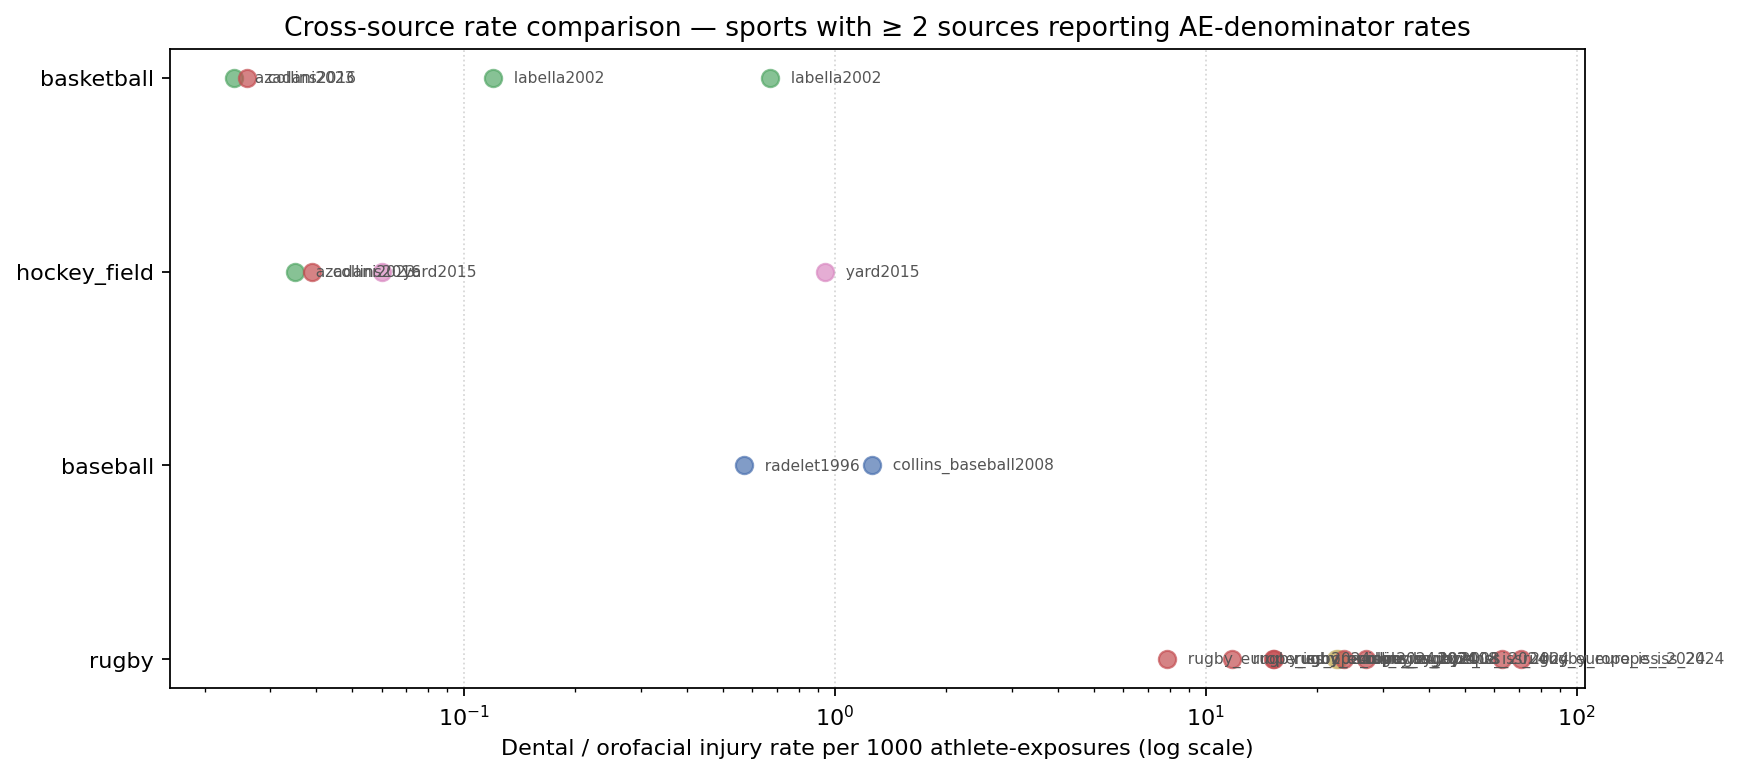
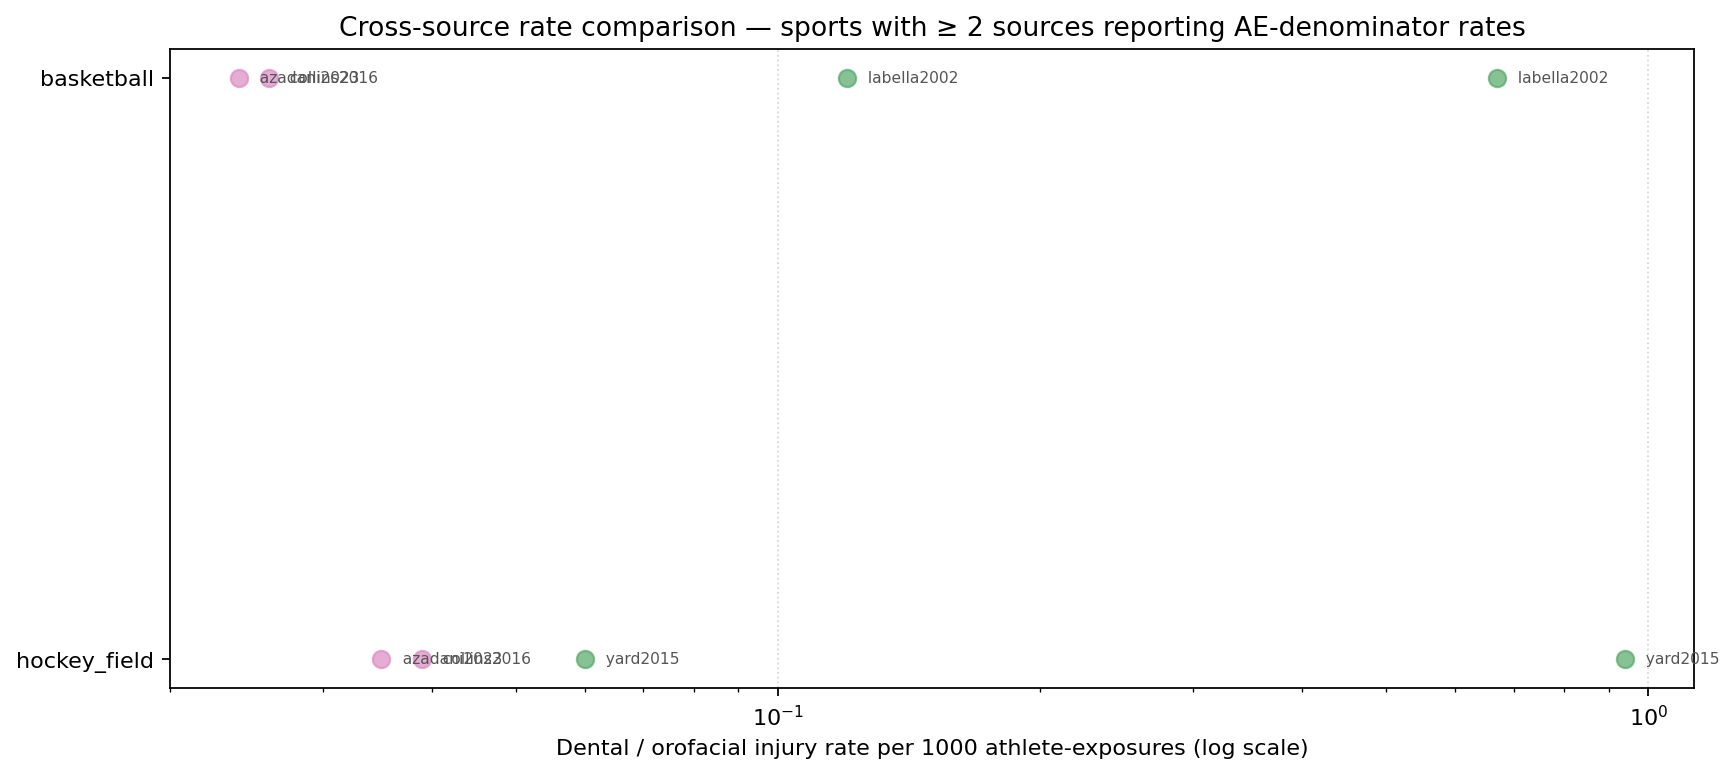
Enforce rate_per_1000_ae as a single athlete-exposure scale (validator C11)
Audit resolved the mixed-denominator issue in rate_per_1000_ae:
- per-100,000-AE rows (azadani2023, collins2016, yard2008) were already
  correctly converted at extraction (rate_raw/100); left unchanged.
- athlete-sessions confirmed as the AE unit (collins2004 rows stay).
- 9 time-denominator rows (radelet1996 x1, rugby_europe_iss_2024 x8, in
  player-(match-)hours) had rate_per_1000_ae blanked; values preserved in
  rate_raw. Now 20 rows carry a per-1000-AE value, all on one scale.

- scripts/08_validate.py: new C11 (FAIL) — rate_per_1000_ae populated only
  when rate_denominator_raw names an AE denominator.
- DATA_DICTIONARY.md: tightened rate_per_1000_ae / rate_denominator_raw defs.
- docs/decisions.md: 2026-06-13 entry. Regenerated cross-source comparison,
  Rate Explorer JSON, methods-paper/explorer caveats (count 29 -> 20).
- Validation: 426 rows, 0 FAILs, 0 WARNs.

diff --git a/docs/rate-explorer.html b/docs/rate-explorer.html
@@ -158,7 +158,7 @@ function render(){
   document.getElementById('summary').innerHTML =
     `<b>${rows.length}</b> row${rows.length===1?'':'s'} for <b>${esc(prettySport(sport))}</b>`+
     (age==='__all'?', all age groups':`, ${esc(prettyAge(age))}`)+
-    `. ${nAE} carry a value in the normalized rate field, but denominators still vary across rows (per&nbsp;1000 AE, per&nbsp;100,000 AE, per player-hours, …) — always read the denominator next to each rate; only same-denominator rates are directly comparable.`;
+    `. ${nAE} carry a value in the normalized per-1000-athlete-exposure field; those share a common denominator and are comparable on that axis (still mind differences in injury definition, age range, and era). Rows without it show the source's native rate in its own denominator (per player-hours, per season, % of injuries, …) — always read the denominator next to each rate.`;
 
   // Mouthguard evidence panel (analyzed rows for this sport, any age)
   const mgRows=DATA.rows.filter(r=>r.sport===sport && r.mouthguard_injury_relation==='analyzed');

diff --git a/scripts/08_validate.py b/scripts/08_validate.py
@@ -22,6 +22,8 @@ Checks:
         (catches sources where we accidentally extracted only adult rows from a youth-eligible source)
   C10. No duplicate (source_id, sport, age_category, sex, level_of_play, extraction_basis,
        season_or_timeframe) combinations — surfaces accidental re-extractions
+  C11. rate_per_1000_ae is populated only when rate_denominator_raw names an
+       athlete-exposure denominator (not hours / season / population / % of injuries)
 
 Output: outputs/validation_report.md with per-check counts and any failing rows.
 Exit code 0 if all hard checks pass (any C5/C9 mismatches surface as warnings,
@@ -29,6 +31,7 @@ not failures, since the schema is intentionally permissive for the pilot phase).
 """
 
 import csv
+import re
 import sys
 from collections import Counter, defaultdict
 from datetime import date
@@ -124,6 +127,27 @@ def parse_num(s):
         return float(s)
     except ValueError:
         return ("ERR", s)
+
+
+# Denominators that disqualify a rate from the athlete-exposure scale.
+_NON_AE_DENOM = ("hour", "season", "population", "per cent", "% of",
+                 "person-year", "player-match", "match-hour", "player-hour",
+                 "per 100 player", "players", "per child", "capita")
+# Athlete-exposure family. athlete-session is the standard AE unit
+# (1 athlete in 1 practice/game = 1 AE); see docs/decisions.md 2026-05-24.
+_AE_DENOM = ("athlete-exposure", "athletic-exposure", "athlete exposure",
+             "athlete-session", "athlete session")
+
+
+def denom_is_ae(denom):
+    """True iff `denom` (the rate_denominator_raw phrasing) is an
+    athlete-exposure denominator, so rate_per_1000_ae may be populated."""
+    d = (denom or "").lower()
+    if any(bad in d for bad in _NON_AE_DENOM):
+        return False
+    if any(good in d for good in _AE_DENOM):
+        return True
+    return bool(re.search(r"\bae\b", d))  # e.g. "per 1000 AE (dental specifically)"
 
 
 def main():
@@ -242,6 +266,20 @@ def main():
                                 "(exposure_context + subgroup_label should already "
                                 "disambiguate legitimate stratifications)")
 
+    # C11 — rate_per_1000_ae is reserved for athlete-exposure denominators.
+    # If the row carries a per-1000-AE value, rate_denominator_raw must name an
+    # AE denominator (not hours/season/population/% of injuries).
+    # See DATA_DICTIONARY.md and docs/decisions.md (2026-05-24, 2026-06-13).
+    for i, r in enumerate(rows):
+        if not r.get("rate_per_1000_ae", "").strip():
+            continue
+        denom = r.get("rate_denominator_raw", "")
+        if not denom_is_ae(denom):
+            add("FAIL", "C11", f"row {i+1}: rate_per_1000_ae is populated but "
+                               f"rate_denominator_raw='{denom}' is not an "
+                               f"athlete-exposure denominator — move the value to "
+                               f"rate_raw and leave rate_per_1000_ae empty")
+
     # Generate report
     fails = [f for f in findings if f[0] == "FAIL"]
     warns = [f for f in findings if f[0] == "WARN"]
@@ -282,6 +320,7 @@ def main():
     W("- **C8** `quality_flag` in allowed set (covered by C2)")
     W("- **C9** every source has at least one `youth_primary` row")
     W("- **C10** no duplicate (source × sport × age × sex × level × basis × season) keys")
+    W("- **C11** `rate_per_1000_ae` populated only when `rate_denominator_raw` is an athlete-exposure denominator")
     W("\n## Per-source row count\n")
     W("| source_id | rows | bases |")
     W("|---|---|---|")

diff --git a/scripts/33_rate_explorer_data.py b/scripts/33_rate_explorer_data.py
@@ -49,7 +49,7 @@ def main() -> None:
 
     payload = {
         "meta": {
-            "generated": "2026-06-12",
+            "generated": "2026-06-13",
             "source": "data/harmonized/master.csv",
             "scope": "youth_primary rows (ages 5-22 inclusion scope)",
             "n_rows": len(projected),

diff --git a/docs/decisions.md b/docs/decisions.md
@@ -406,4 +406,36 @@ One record (40662680, Swiss Muay Thai/K-1/kickboxing survey, Robbiani & Filippi 
 
 ---
 
+### 2026-06-13: `rate_per_1000_ae` is enforced as a single per-1000-athlete-exposure scale
+
+**Trigger:** Audit of the 29 rows carrying a `rate_per_1000_ae` value found the column was being read as if it held a common scale, but next to it sat `rate_denominator_raw` strings naming *different* denominators ("per 100,000 athlete-exposures", "per 1000 player-match-hours", "per 100 player-hours", "per 1000 athlete-sessions"). This extends the 2026-05-24 "denominator-unit issue" entry, which set the rule but was never enforced across the full dataset or by the validator.
+
+**Question:** Were the 29 values actually on different scales, and if so how do we put them on one true per-1000-AE scale (or split into value+unit)?
+
+**Investigation (corrects an assumption in the trigger):**
+- The 9 rows whose *raw* rate is reported "per 100,000 athlete-exposures" (azadani2023 ×3, collins2016 ×5, yard2008 ×1) were **already correctly converted** at extraction time: `rate_per_1000_ae = rate_raw ÷ 100` (e.g. azadani2023 basketball `rate_raw = 2.4` per 100k AE → `rate_per_1000_ae = 0.024` per 1000 AE). The "per 100,000" phrasing in `rate_denominator_raw` describes `rate_raw`, **not** the per-1000-AE column. These needed **no** change — dividing them again would have corrupted correct data.
+- `rate_denominator_raw` is, by definition (DATA_DICTIONARY.md), the original phrasing for `rate_raw`. It is *not* a label for `rate_per_1000_ae`. This was the source of the confusion.
+- The only genuinely mis-filed rows were **time-denominator** rates pasted verbatim into the AE column:
+  - **radelet1996** (1 row): `0.57` per-1000-*player-hours* (raw `0.057` per 100 player-hours).
+  - **rugby_europe_iss_2024** (8 rows): per-1000-*player-match-hours* (Sevens championship/trophy + head/face subsets).
+- **collins2004** (4 rows) reports "per 1000 **athlete-sessions**." An athlete-exposure is, by the standard NCAA-ISS / RIO definition, one athlete participating in one practice or competition — i.e. one session. The 2026-05-24 entry already defines AE as "an athlete-session count." So athlete-sessions **are** the AE unit; these 4 rows are valid per-1000-AE and stay. (An earlier framing of this audit listed athlete-sessions as non-AE; that is incorrect and is overridden here.)
+
+**Decision:**
+- **Approach (a), convert-and-null in place** — keep the `rate_per_1000_ae` column rather than splitting into `rate_value` + `rate_unit`. This honours the 2026-05-24 decision (which reserved this column for AE denominators and explicitly *deferred* a richer multi-column schema because it would force re-extraction). The split option remains available as a future v1.0 step if multi-unit structured comparison is ever needed.
+- **Invariant:** `rate_per_1000_ae` is populated **iff** the source denominator is an athlete-exposure (athlete-/athletic-exposure, athlete-session, or "AE"). Per-100,000-AE rates are stored already divided by 100. Time (hours / player-match-hours), season, population, and percent-of-injuries denominators leave `rate_per_1000_ae` empty; their value stays in `rate_raw` + `rate_denominator_raw`.
+- Blanked `rate_per_1000_ae` for the 9 time-denominator rows above (values preserved in `rate_raw`). Result: 20 rows now carry a per-1000-AE value, all on one scale.
+
+**Implementation:**
+- `data/extracted/radelet1996.csv` (1 row) and `data/extracted/rugby_europe_iss_2024.csv` (8 rows): `rate_per_1000_ae` blanked; all other fields unchanged.
+- `DATA_DICTIONARY.md`: `rate_per_1000_ae` and `rate_denominator_raw` definitions tightened to state the AE-only invariant and that `rate_denominator_raw` describes `rate_raw`.
+- `scripts/08_validate.py`: new **C11** (FAIL) — every populated `rate_per_1000_ae` row must have an AE-type `rate_denominator_raw`.
+- Re-ran `07_harmonize.py` → `08_validate.py` (0 FAILs), `21_cross_source_compare.py`, `33_rate_explorer_data.py`. As a consequence the cross-source view no longer pools rugby AE rates (collins_rugby2008) with rugby player-match-hours rates (rugby_europe).
+- Methods paper and Rate Explorer caveats updated (count 29 → 20; mixed-denominator warning replaced with the normal cross-source comparability caveats).
+
+**Affected rows/sources:** radelet1996 (1), rugby_europe_iss_2024 (8). No other extractions changed.
+
+**Reviewer:** Pending advisor review.
+
+---
+
 <!-- Add new decisions above this line, most recent first or chronological — pick one and stick with it. Chronological recommended for audit trail. -->

diff --git a/outputs/cross_source_rate_comparison.md b/outputs/cross_source_rate_comparison.md
@@ -2,7 +2,7 @@
 
 _Auto-generated from `data/harmonized/master.csv`. Compares per-1000-athlete-exposure dental / orofacial injury rates across sources for each sport with >= 2 sources._
 
-**Sports with multi-source AE-rate data:** 4
+**Sports with multi-source AE-rate data:** 2
 
 
 Note: rates can legitimately differ across sources because of differences in:
@@ -15,15 +15,6 @@ Note: rates can legitimately differ across sources because of differences in:
 
 Large spread across sources is expected; it does NOT mean the database is wrong.
 
-
-## baseball (2 sources, 2 rows)
-
-| source_id | year | country | age | sex | rate /1000 AE | denominator phrasing | subgroup |
-|---|---:|---|---|---|---:|---|---|
-| radelet1996 | 1996 | US | mixed | mixed | **0.570** | per 100 player-hours (overall) |  |
-| collins_baseball2008 | 2008 | US | adolescent | male | **1.260** | per 1000 athlete-exposures (HS baseball overall) |  |
-
-*Spread: min=0.570, max=1.260, ratio=2.2x*
 
 ## basketball (3 sources, 4 rows)
 
@@ -46,20 +37,3 @@ Large spread across sources is expected; it does NOT mean the database is wrong.
 | yard2015 | 2015 | US | collegiate | female | **0.940** | per 1000 AE (head/face/eye combined) | head_face_eye_aggregate |
 
 *Spread: min=0.035, max=0.940, ratio=26.9x*
-
-## rugby (2 sources, 10 rows)
-
-| source_id | year | country | age | sex | rate /1000 AE | denominator phrasing | subgroup |
-|---|---:|---|---|---|---:|---|---|
-| rugby_europe_iss_2024 | 2024 |  | adolescent | male | **7.850** | per 1000 player-match-hours (head/face subset) | u18_men_trophy_headface |
-| rugby_europe_iss_2024 | 2024 |  | adolescent | female | **11.780** | per 1000 player-match-hours (head/face subset) | u18_women_championship_headface |
-| rugby_europe_iss_2024 | 2024 |  | adolescent | female | **15.200** | per 1000 player-match-hours (Sevens — U18 Women's Trophy) | u18_women_trophy |
-| rugby_europe_iss_2024 | 2024 |  | adolescent | female | **15.240** | per 1000 player-match-hours (head/face subset) | u18_women_trophy_headface |
-| collins_rugby2008 | 2008 | US | collegiate | male | **22.500** | per 1000 game athletic-exposures (male) | male_game |
-| collins_rugby2008 | 2008 | US | collegiate | female | **22.700** | per 1000 game athletic-exposures (female) | female_game |
-| rugby_europe_iss_2024 | 2024 |  | adolescent | female | **23.600** | per 1000 player-match-hours (Sevens — U18 Women's Championship) | u18_women_championship |
-| rugby_europe_iss_2024 | 2024 |  | adolescent | male | **27.000** | per 1000 player-match-hours (head/face subset) | u18_men_championship_headface |
-| rugby_europe_iss_2024 | 2024 |  | adolescent | male | **63.000** | per 1000 player-match-hours (Sevens — U18 Men's Championship) | u18_men_championship |
-| rugby_europe_iss_2024 | 2024 |  | adolescent | male | **70.600** | per 1000 player-match-hours (Sevens — U18 Men's Trophy) | u18_men_trophy |
-
-*Spread: min=7.850, max=70.600, ratio=9.0x*

diff --git a/outputs/methods_paper_draft.md b/outputs/methods_paper_draft.md
@@ -89,7 +89,7 @@ Sport classification follows a controlled vocabulary maintained in `docs/decisio
 
 ### Technical validation (PROTOCOL §7)
 
-A versioned validator (`scripts/08_validate.py`) runs 10 checks (C1-C10) on `data/harmonized/master.csv`:
+A versioned validator (`scripts/08_validate.py`) runs 11 checks (C1-C11) on `data/harmonized/master.csv`:
 - **C1–C2:** schema completeness; categorical-vocabulary conformance
 - **C3:** numeric plausibility (`rate_per_1000_ae < 100` per PROTOCOL §7)
 - **C4–C5:** age-min ≤ age-max; `age_category` consistency with the age range
@@ -98,6 +98,7 @@ A versioned validator (`scripts/08_validate.py`) runs 10 checks (C1-C10) on `dat
 - **C8:** `quality_flag` in the allowed set
 - **C9:** every source has at least one `youth_primary` row
 - **C10:** no duplicate (source × sport × age × sex × level × basis × exposure_context × subgroup × season) keys
+- **C11:** `rate_per_1000_ae` populated only when `rate_denominator_raw` is an athlete-exposure denominator
 
 C1–C4, C6–C8 and C10 are hard checks (a violation fails the build); C5 and C9 surface as warnings, since age-category banding is intentionally permissive.
 
@@ -123,9 +124,9 @@ Each source carries a stable `source_id` of form `<firstauthor><year>` (PubMed-k
 
 ## Technical Validation
 
-Current state (v0.1.x snapshot, 2026-06-12): **426 rows / 106 sources / 0 FAILs / 0 WARNs** against the 10 validation checks (`outputs/validation_report.md`), run on every commit via GitHub Actions CI. 23 PMC full-text XMLs cached. Cross-source rate comparison confirms tight agreement on US high-school basketball rates between `collins2016` (0.026 / 100k AE) and `azadani2023` (0.024 / 100k AE) — independent surveillance covering overlapping years yielding statistically indistinguishable estimates (`outputs/cross_source_rate_comparison.md`).
+Current state (v0.1.x snapshot, 2026-06-13): **426 rows / 106 sources / 0 FAILs / 0 WARNs** against the 11 validation checks (`outputs/validation_report.md`), run on every commit via GitHub Actions CI. 23 PMC full-text XMLs cached. Cross-source rate comparison confirms tight agreement on US high-school basketball rates between `collins2016` (0.026 per 1000 AE) and `azadani2023` (0.024 per 1000 AE) — equivalently 2.6 and 2.4 per 100,000 AE — independent surveillance covering overlapping years yielding statistically indistinguishable estimates (`outputs/cross_source_rate_comparison.md`).
 
-Of the 426 rows, 29 carry a value in `rate_per_1000_ae` (the rest preserve the source's native denominator in `rate_raw`/`rate_denominator_raw`); 41 rows report a mouthguard use rate and 41 record an analyzed mouthguard-vs-injury relationship. **Caveat (v0.1.x):** the `rate_per_1000_ae` column currently aggregates source-normalized rates whose denominators still differ (per&nbsp;1000 athlete-exposures, per&nbsp;100,000 athlete-exposures, per&nbsp;1000 athlete-sessions, per&nbsp;1000/100 player-hours), so these values are **not yet all mutually comparable** — each must be read with `rate_denominator_raw`. Two values are directly comparable only when their denominators match (e.g. the `collins2016`/`azadani2023` per-100k-AE basketball pair above). Converting this column to a single true per-1000-AE scale (or splitting it into `rate_value` + `rate_unit`) is a planned v1.0 harmonization step.
+Of the 426 rows, 20 carry a value in `rate_per_1000_ae` (the rest preserve the source's native denominator in `rate_raw`/`rate_denominator_raw`); 41 rows report a mouthguard use rate and 41 record an analyzed mouthguard-vs-injury relationship. All 20 values sit on a single per-1000-athlete-exposure scale: rates the source reported per 100,000&nbsp;AE are stored already divided by 100, athlete-session denominators are treated as athlete-exposures (the standard "one athlete in one practice or game" unit), and rates with time (hours, player-match-hours), population, or percent-of-injuries denominators are excluded from this column by design — kept only in `rate_raw`/`rate_denominator_raw` — and that exclusion is now enforced by validator check C11 (see `docs/decisions.md`, 2026-06-13). The 20 are therefore directly comparable on the denominator axis; as in any cross-source comparison they still differ in injury definition, age range, era, and competition-vs-practice context, so each rate should be read alongside its row attributes. (A future option to split into explicit `rate_value` + `rate_unit` columns, which would also carry the non-AE rates as structured values, remains available but is not needed for v0.1.x.)
 
 Limitations transparently documented:
 - English-language sources only (v1.0).
@@ -139,7 +140,7 @@ Limitations transparently documented:
 
 ## Usage Notes
 
-The headline scope is the youth-primary subset; subset on `extraction_basis == "youth_primary"` for the v1.0-scope view, or include `adult_comparator` rows for cross-age comparison. Always read a rate together with its `rate_denominator_raw`: only the 29 rows with a non-empty `rate_per_1000_ae` share a common athlete-exposure denominator and are directly comparable; the rest preserve heterogeneous native denominators (per-1000-player-hours, per-100k-population, per-season, % of injuries) and must not be pooled blindly. Empty cell = not reported; `0` = reported zero; `NA` = not applicable.
+The headline scope is the youth-primary subset; subset on `extraction_basis == "youth_primary"` for the v1.0-scope view, or include `adult_comparator` rows for cross-age comparison. Always read a rate together with its `rate_denominator_raw`: the 20 rows with a non-empty `rate_per_1000_ae` share a common athlete-exposure denominator and are directly comparable on that axis (subject to the usual definitional, age, and era differences); the rest preserve heterogeneous native denominators (per-1000-player-hours, per-100k-population, per-season, % of injuries) in `rate_raw` and must not be pooled blindly. Empty cell = not reported; `0` = reported zero; `NA` = not applicable.
 
 ```python
 import pandas as pd

diff --git a/DATA_DICTIONARY.md b/DATA_DICTIONARY.md
@@ -53,9 +53,9 @@ When adding a new source, follow these definitions exactly. When a definition is
 | `injury_count` | integer | Number of dental/orofacial injuries reported | `47` |
 | `injury_type_raw` | string | Injury terminology as used in source | `"tooth avulsion"` |
 | `injury_category` | category | Standardized per Andreasen classification: `enamel_fracture`, `crown_fracture`, `root_fracture`, `luxation`, `avulsion`, `concussion`, `other_dental`, `orofacial_with_dental`, `unspecified_dental` | `avulsion` |
-| `rate_raw` | float | Rate as reported in source | `0.43` |
-| `rate_denominator_raw` | string | Original denominator phrasing | `"per 1000 athlete-exposures"` |
-| `rate_per_1000_ae` | float | Standardized rate per 1000 athlete-exposures. Empty if source doesn't provide computable data. | `0.43` |
+| `rate_raw` | float | Rate as reported in source (in the source's own denominator) | `0.43` |
+| `rate_denominator_raw` | string | Original denominator phrasing — describes **`rate_raw`**, not `rate_per_1000_ae`. | `"per 100,000 athlete-exposures"` |
+| `rate_per_1000_ae` | float | Standardized rate per 1000 **athlete-exposures (AE)**. Populated **iff** the source's denominator is an athlete-exposure: athlete-/athletic-exposure, athlete-session (1 athlete in 1 practice or game = 1 AE = 1 session), or a rate already expressed "per … AE". A per-100,000-AE raw rate is stored here already divided by 100 (e.g. `rate_raw` 2.4 per 100k AE → `0.024`). **Leave empty** when the denominator is time (hours, player-match-hours), athlete-seasons, players, population, or percent-of-injuries — those values stay only in `rate_raw` + `rate_denominator_raw`. Enforced by validator check C11. See `docs/decisions.md` 2026-05-24 and 2026-06-13. | `0.024` |
 
 ### Protective equipment
 

diff --git a/outputs/validation_report.md b/outputs/validation_report.md
@@ -1,4 +1,4 @@
-# Validation Report — 2026-06-12
+# Validation Report — 2026-06-15
 
 _Run against `data/harmonized/master.csv` (426 rows)._
 
@@ -26,6 +26,7 @@ All hard validation checks (schema, categorical values, numeric ranges, age cons
 - **C8** `quality_flag` in allowed set (covered by C2)
 - **C9** every source has at least one `youth_primary` row
 - **C10** no duplicate (source × sport × age × sex × level × basis × season) keys
+- **C11** `rate_per_1000_ae` populated only when `rate_denominator_raw` is an athlete-exposure denominator
 
 ## Per-source row count
 

diff --git a/CONTRIBUTING.md b/CONTRIBUTING.md
@@ -44,7 +44,7 @@ The CI workflow at `.github/workflows/validate.yml` runs on every push and PR. D
 | `04_write_screening_report.py` | Update `outputs/screening_report_*.md` | after any screening change |
 | `05_neiss_filter.py` | Filter manually-downloaded NEISS TSV → CSV | after dropping a new TSV in `data/raw/neiss/` |
 | `07_harmonize.py` | Combine `data/extracted/*.csv` → `master.csv` | after any new extraction |
-| `08_validate.py` | Run 10 validation checks | after harmonization |
+| `08_validate.py` | Run 11 validation checks | after harmonization |
 | `18_visualize.py` | Regenerate baseline figures | after major data updates |
 | `21_cross_source_compare.py` | Cross-source rate comparison | after any new sport extraction |
 | `22_neiss_extract_all_years.py` | Split multi-year NEISS files into per-year extractions | after running 05 on new years |

diff --git a/docs/index.md b/docs/index.md
@@ -74,7 +74,7 @@ scripts/01_parse_abstracts.py            # parse efetch XML to per-PMID JSON
 scripts/02_screen_candidates.py          # auto rules + manual decisions
 scripts/05_neiss_filter.py               # filter NEISS TSV by body part 88 + 23 sport codes + age 5-22
 scripts/07_harmonize.py                  # combine data/extracted/*.csv → master.csv
-scripts/08_validate.py                   # 10 validation checks (C1–C10)
+scripts/08_validate.py                   # 11 validation checks (C1–C11)
 scripts/18_visualize.py                  # baseline figures
 scripts/22_neiss_extract_all_years.py    # multi-year NEISS orchestrator
 scripts/23_neiss_trends.py               # year-over-year trend report

diff --git a/outputs/factsheet.md b/outputs/factsheet.md
@@ -71,7 +71,7 @@ All publicly viewable on the repo:
 - **`DATA_DICTIONARY.md`** — column-by-column data dictionary.
 - **`docs/decisions.md`** — append-only log of every harmonization decision and why. Includes corrections (e.g., NEISS body-part code labels in PROTOCOL §4.1).
 - **`docs/sources.md`** — full audit trail of every candidate source through screening.
-- **`outputs/validation_report.md`** — current pass/fail status against the 10 validation checks.
+- **`outputs/validation_report.md`** — current pass/fail status against the 11 validation checks.
 - **`outputs/screening_report_2026-05-21.md`** — per-decision screening audit.
 
 ## Citation